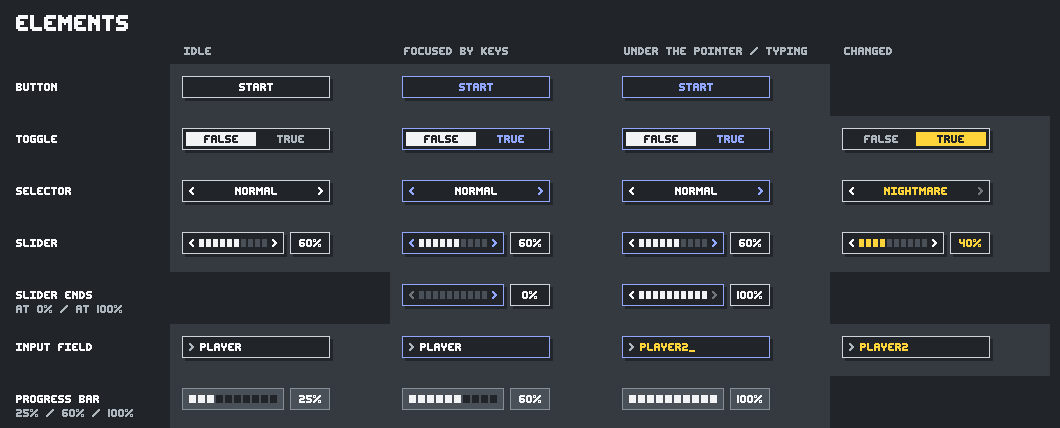
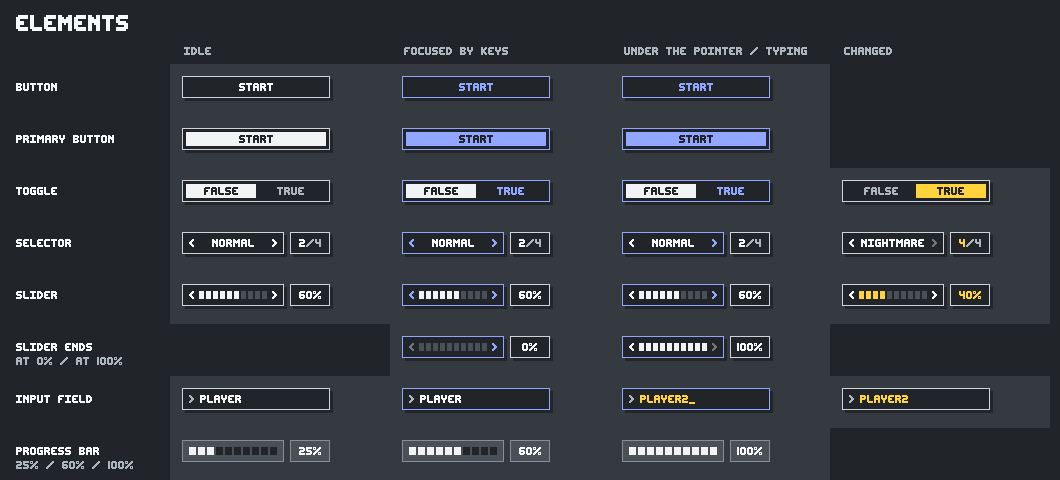
feat(elements): count a selector's position and unlight closed fields

diff --git a/src/facade/renderer.py b/src/facade/renderer.py
@@ -391,6 +391,10 @@ class MenuRenderer:
             node = self._compose_node(self._make_bar_row(element, tree, space), tree, space)
             node.hit_target = element
             return node
+        if isinstance(element, Selector) and element.use_number:
+            node = self._compose_node(self._make_selector_row(element, space), tree, space)
+            node.hit_target = element
+            return node
 
         size_pw, size_ph = self._resolve_measure(element.size, element.size_measure, space)
         margin_pw, margin_ph = self._resolve_measure(element.margin, element.margin_measure, space)
@@ -671,6 +675,35 @@ class MenuRenderer:
 
     # -------------------------------------------------------------------------
 
+    def _make_selector_row(self, element: Selector, space: _MenuTree.Space) -> HorizontalDivision:
+        """The selector box and its number box, together the width the selector's ``size`` gives."""
+        size_pw, size_ph = self._resolve_measure(element.size, element.size_measure, space)
+        # The selector box is a copy without its number, so it is drawn as before; the row holding both is
+        # what is selected and clicked, and the copy keeps the id so it still lights with the real selector
+        selector_box = replace(
+            element, size=(float(size_pw - element.box_gap_pw - element.number_pw), float(size_ph)), size_measure=MeasureType.ABSOLUTE,
+            use_number=False, is_selectable=False, offset=(0.0, 0.0), margin=(0.0, 0.0), is_fixed=False,
+        )
+        position, count = element.get_number()
+        number_text = replace(element.number_text, text=position)
+        if element.is_edited:
+            number_text = replace(number_text, text_color=element.altered_selection_color)
+        # The layout trims the spacing after each piece of text, so 1px between them spaces them like one word
+        number_row = HorizontalDivision(elements=[number_text, replace(element.count_text, text=count)], gap=(1.0, 0.0))
+        number_box = HorizontalDivision(
+            elements=[number_row], size=(float(element.number_pw), float(size_ph)), padding=element.padding, padding_measure=element.padding_measure,
+            gap=(0.0, 0.0), alignment=AlignmentType.CENTER,
+            background_color=element.background_color, background_alpha=element.background_alpha,
+            border_thickness=element.border_thickness, border_color=element.border_color, border_alpha=element.border_alpha,
+            shadow_color=element.shadow_color, shadow_alpha=element.shadow_alpha, shadow_scale=element.shadow_scale,
+            shadow_offset=element.shadow_offset, shadow_offset_measure=element.shadow_offset_measure,
+        )
+        return HorizontalDivision(
+            elements=[selector_box, number_box], gap=(float(element.box_gap_pw), 0.0), justify=element.justify, alignment=element.alignment,
+            offset=element.offset, offset_measure=element.offset_measure, margin=element.margin, margin_measure=element.margin_measure,
+            rotation=element.rotation, is_fixed=element.is_fixed, is_selectable=element.is_selectable,
+        )
+
     def _make_bar_row(self, element: ProgressBar, tree: _MenuTree, space: _MenuTree.Space) -> HorizontalDivision:
         """The bar box and the number box of ``element``, styled and sized from its fields."""
         size_pw, size_ph = self._resolve_measure(element.size, element.size_measure, space)
@@ -943,7 +976,10 @@ class MenuRenderer:
         if isinstance(element, (Button, Toggle)):
             return "body"
         if isinstance(element, Selector):
-            return "left" if px < rect.centerx else "right"
+            box_pw = rect.width - (element.box_gap_pw + element.number_pw if element.use_number else 0)
+            if px >= rect.x + box_pw:
+                return ""  # The number box only shows the position
+            return "left" if px < rect.x + box_pw // 2 else "right"
         if isinstance(element, Slider):
             bar_pw = rect.width - (element.box_gap_pw + element.number_pw if element.use_number else 0)
             if px >= rect.x + bar_pw:

diff --git a/src/facade/elements.py b/src/facade/elements.py
@@ -798,7 +798,10 @@ class Selector(InteractiveElement):
     """
     One of ``selections``, stepped through with arrows pinned to the edges of
     a fixed-size box, with the option centred between them. Every step is
-    saved at once and calls ``action`` with the new index.
+    saved at once and calls ``action`` with the new index. With
+    ``use_number``, a box to the right counts the option's position out of
+    the total, like a slider's percentage, with the total muted so the
+    number that changes stands out; ``size`` then covers both boxes.
     """
 
     @dataclass(kw_only=True, repr=False)
@@ -819,6 +822,16 @@ class Selector(InteractiveElement):
 
         text: str = "[SELECTION]"
 
+    @dataclass(kw_only=True, repr=False)
+    class NumberText(NormalText):
+        """The option's position in the box beside the selector."""
+
+    @dataclass(kw_only=True, repr=False)
+    class CountText(NormalText):
+        """The total after the position, muted so the position stands out."""
+
+        text_color: Color = ThemeColorType.TEXT_MUTED
+
     value: int = 0
     selections: tuple[str, ...] = ("",)
 
@@ -826,6 +839,14 @@ class Selector(InteractiveElement):
     left_arrow: LeftShiftArrow = field(default_factory=LeftShiftArrow)
     right_arrow: RightShiftArrow = field(default_factory=RightShiftArrow)
     gap: Measure = (2.0, 0.0)  # Between each arrow's pressable area and the option's slot
+
+    number_text: Text = field(default_factory=NumberText)
+    count_text: Text = field(default_factory=CountText)
+    number_format: str = "{position}"  # str.format pattern given the 1-based ``position``
+    count_format: str = "/{count}"  # str.format pattern given the ``count`` of options
+    number_pw: int = 40  # The same width as a slider's number box
+    box_gap_pw: int = 6  # Between the selector box and the number box
+    use_number: bool = True
 
     action: Callable[[Any], bool] = field(default=lambda v: True)
 
@@ -844,6 +865,10 @@ class Selector(InteractiveElement):
     disabled_arrow_color: Color = ThemeColorType.TEXT_DISABLED
 
     is_edited: bool = field(default=False, init=False, repr=False)
+
+    def get_number(self) -> tuple[str, str]:
+        """The position and the total shown in the number box, such as ``("2", "/4")``."""
+        return self.number_format.format(position=self.value + 1), self.count_format.format(count=len(self.selections))
 
     def get_selection(self) -> str:
         """The text of the current option."""

diff --git a/tests/test_renderer.py b/tests/test_renderer.py
@@ -400,7 +400,8 @@ def test_pointer_lights_only_the_arrow_on_its_side():
     keys_surface = ui.render()
     rect = hit_rect_of(ui, selector)
     left_zone = pygame.Rect(rect.left + 1, rect.top + 1, 20, rect.height - 2)
-    right_zone = pygame.Rect(rect.right - 21, rect.top + 1, 20, rect.height - 2)
+    box_right = rect.right - selector.box_gap_pw - selector.number_pw  # The selector box ends where its number box begins
+    right_zone = pygame.Rect(box_right - 21, rect.top + 1, 20, rect.height - 2)
     assert count_pixels(keys_surface, left_zone, selector.selected_arrow_color) > 0  # The keys light both arrows
 
     menu.set_pointer_leading(True)
@@ -481,6 +482,37 @@ def test_cursor_in_an_empty_field_sits_on_the_hint_without_moving_it(monkeypatch
 
     assert text_rect("[ESC]").topleft == closed_hint.topleft
     assert text_rect("_").topleft == closed_hint.topleft
+
+
+def test_selector_counts_its_position_beside_it_in_one_input_width():
+    selector = Selector(selections=("A", "B", "C", "D"), value=1)
+    plain = Selector(selections=("A", "B"), use_number=False)
+    ui = Interface(size=SIZE)
+    ui.push(Panel(root_elements=[Gap(is_selectable=True), selector, plain]))
+    ui.render()
+
+    def texts():
+        return [drawn.text for drawn, _ in ui.renderer._menu_tree.element_rects if isinstance(drawn, NormalText)]
+
+    assert "2" in texts() and "/4" in texts() and "/2" not in texts()
+    assert hit_rect_of(ui, selector).width == hit_rect_of(ui, plain).width
+
+    selector.next()
+    ui.render()
+    assert "3" in texts()
+
+
+def test_selector_counter_mutes_the_total_and_marks_a_changed_position():
+    selector = Selector(selections=("A", "B", "C", "D"), value=1)
+    ui = Interface(size=SIZE)
+    ui.push(Panel(root_elements=[Gap(is_selectable=True), selector]))
+    selector.next()
+    ui.render()
+
+    colors = {drawn.text: drawn.text_color for drawn, _ in ui.renderer._menu_tree.element_rects if isinstance(drawn, NormalText)}
+    assert colors["3"] == selector.altered_selection_color
+    assert colors["/4"] == selector.count_text.text_color
+
 
 def bar_margins(surface, box, color):
     """Gaps between the inside of a border and the block of ``color`` within it, as left, right, top, bottom."""

diff --git a/tests/test_interface.py b/tests/test_interface.py
@@ -419,6 +419,54 @@ def test_a_key_scrolls_back_to_the_keys_place_before_moving():
     assert menu.get_selected_element() is buttons[0]  # Found, not moved
     assert menu._scroll <= rect.top and rect.bottom <= menu._scroll + 120
 
+
+def test_clicking_a_selector_side_steps_it_and_the_counter_does_nothing(ui):
+    selector = Selector(selections=("A", "B", "C"), value=1)
+    ui.push(Menu(root_elements=[selector]))
+    ui.render()
+    rect = rect_of(ui, selector)
+
+    press_and_release(ui, (rect.right - 10, rect.centery))  # The counter box
+    assert selector.value == 1
+    press_and_release(ui, (rect.left + 10, rect.centery))
+    assert selector.value == 0
+
+
+def test_finishing_typing_with_enter_unlights_the_field_until_the_pointer_moves(ui):
+    field = InputField(value=InputField.InputValueText(text="PLAYER"))
+    menu = Menu(root_elements=[field])
+    ui.push(menu)
+    ui.render()
+    position = center_of(ui, field)
+
+    ui.handle_event(motion(position))
+    press_and_release(ui, position)
+    ui.handle_event(typed("x"))
+    tap(ui, pygame.K_RETURN)
+
+    assert not field.is_open and menu.get_lit_id() is None
+    ui.handle_event(motion((position[0] + 1, position[1])))
+    assert menu.get_lit_id() == field.id
+
+
+def test_finishing_typing_opened_by_the_keys_also_unlights_the_field(ui):
+    field = InputField(value=InputField.InputValueText(text="PLAYER"))
+    below = Button(label=Button.ButtonText(text="OK"))
+    menu = Menu(root_elements=[field, below])
+    ui.push(menu)
+    ui.render()
+
+    tap(ui, pygame.K_RETURN)
+    ui.handle_event(typed("x"))
+    tap(ui, pygame.K_RETURN)
+    assert not field.is_open and menu.get_lit_id() is None
+
+    tap(ui, pygame.K_DOWN)  # The first press only shows the keys are still on the field
+    assert menu.get_lit_id() == field.id
+    tap(ui, pygame.K_DOWN)
+    assert menu.get_selected_element() is below
+
+
 def test_return_key_presses_a_primary_button(ui):
     pressed = []
     ui.push(Menu(root_elements=[PrimaryButton(action=lambda: pressed.append("start"))]))

diff --git a/src/facade/manager.py b/src/facade/manager.py
@@ -284,6 +284,11 @@ def handle_menu_keydown(menu: Menu, renderer: MenuRenderer | DebugRenderer, even
     typing_field = _get_typing_field(menu)
     if typing_field is not None:
         if _handle_typing_key(typing_field, event):
+            if not typing_field.is_open:
+                # Closing a field from the keyboard leaves nothing lit, however it was opened, until the pointer
+                # moves or a key shows where the keys are again
+                menu.set_pointer_leading(True)
+                menu.set_hovered(None)
             return True
         _finish_typing(typing_field)
 
